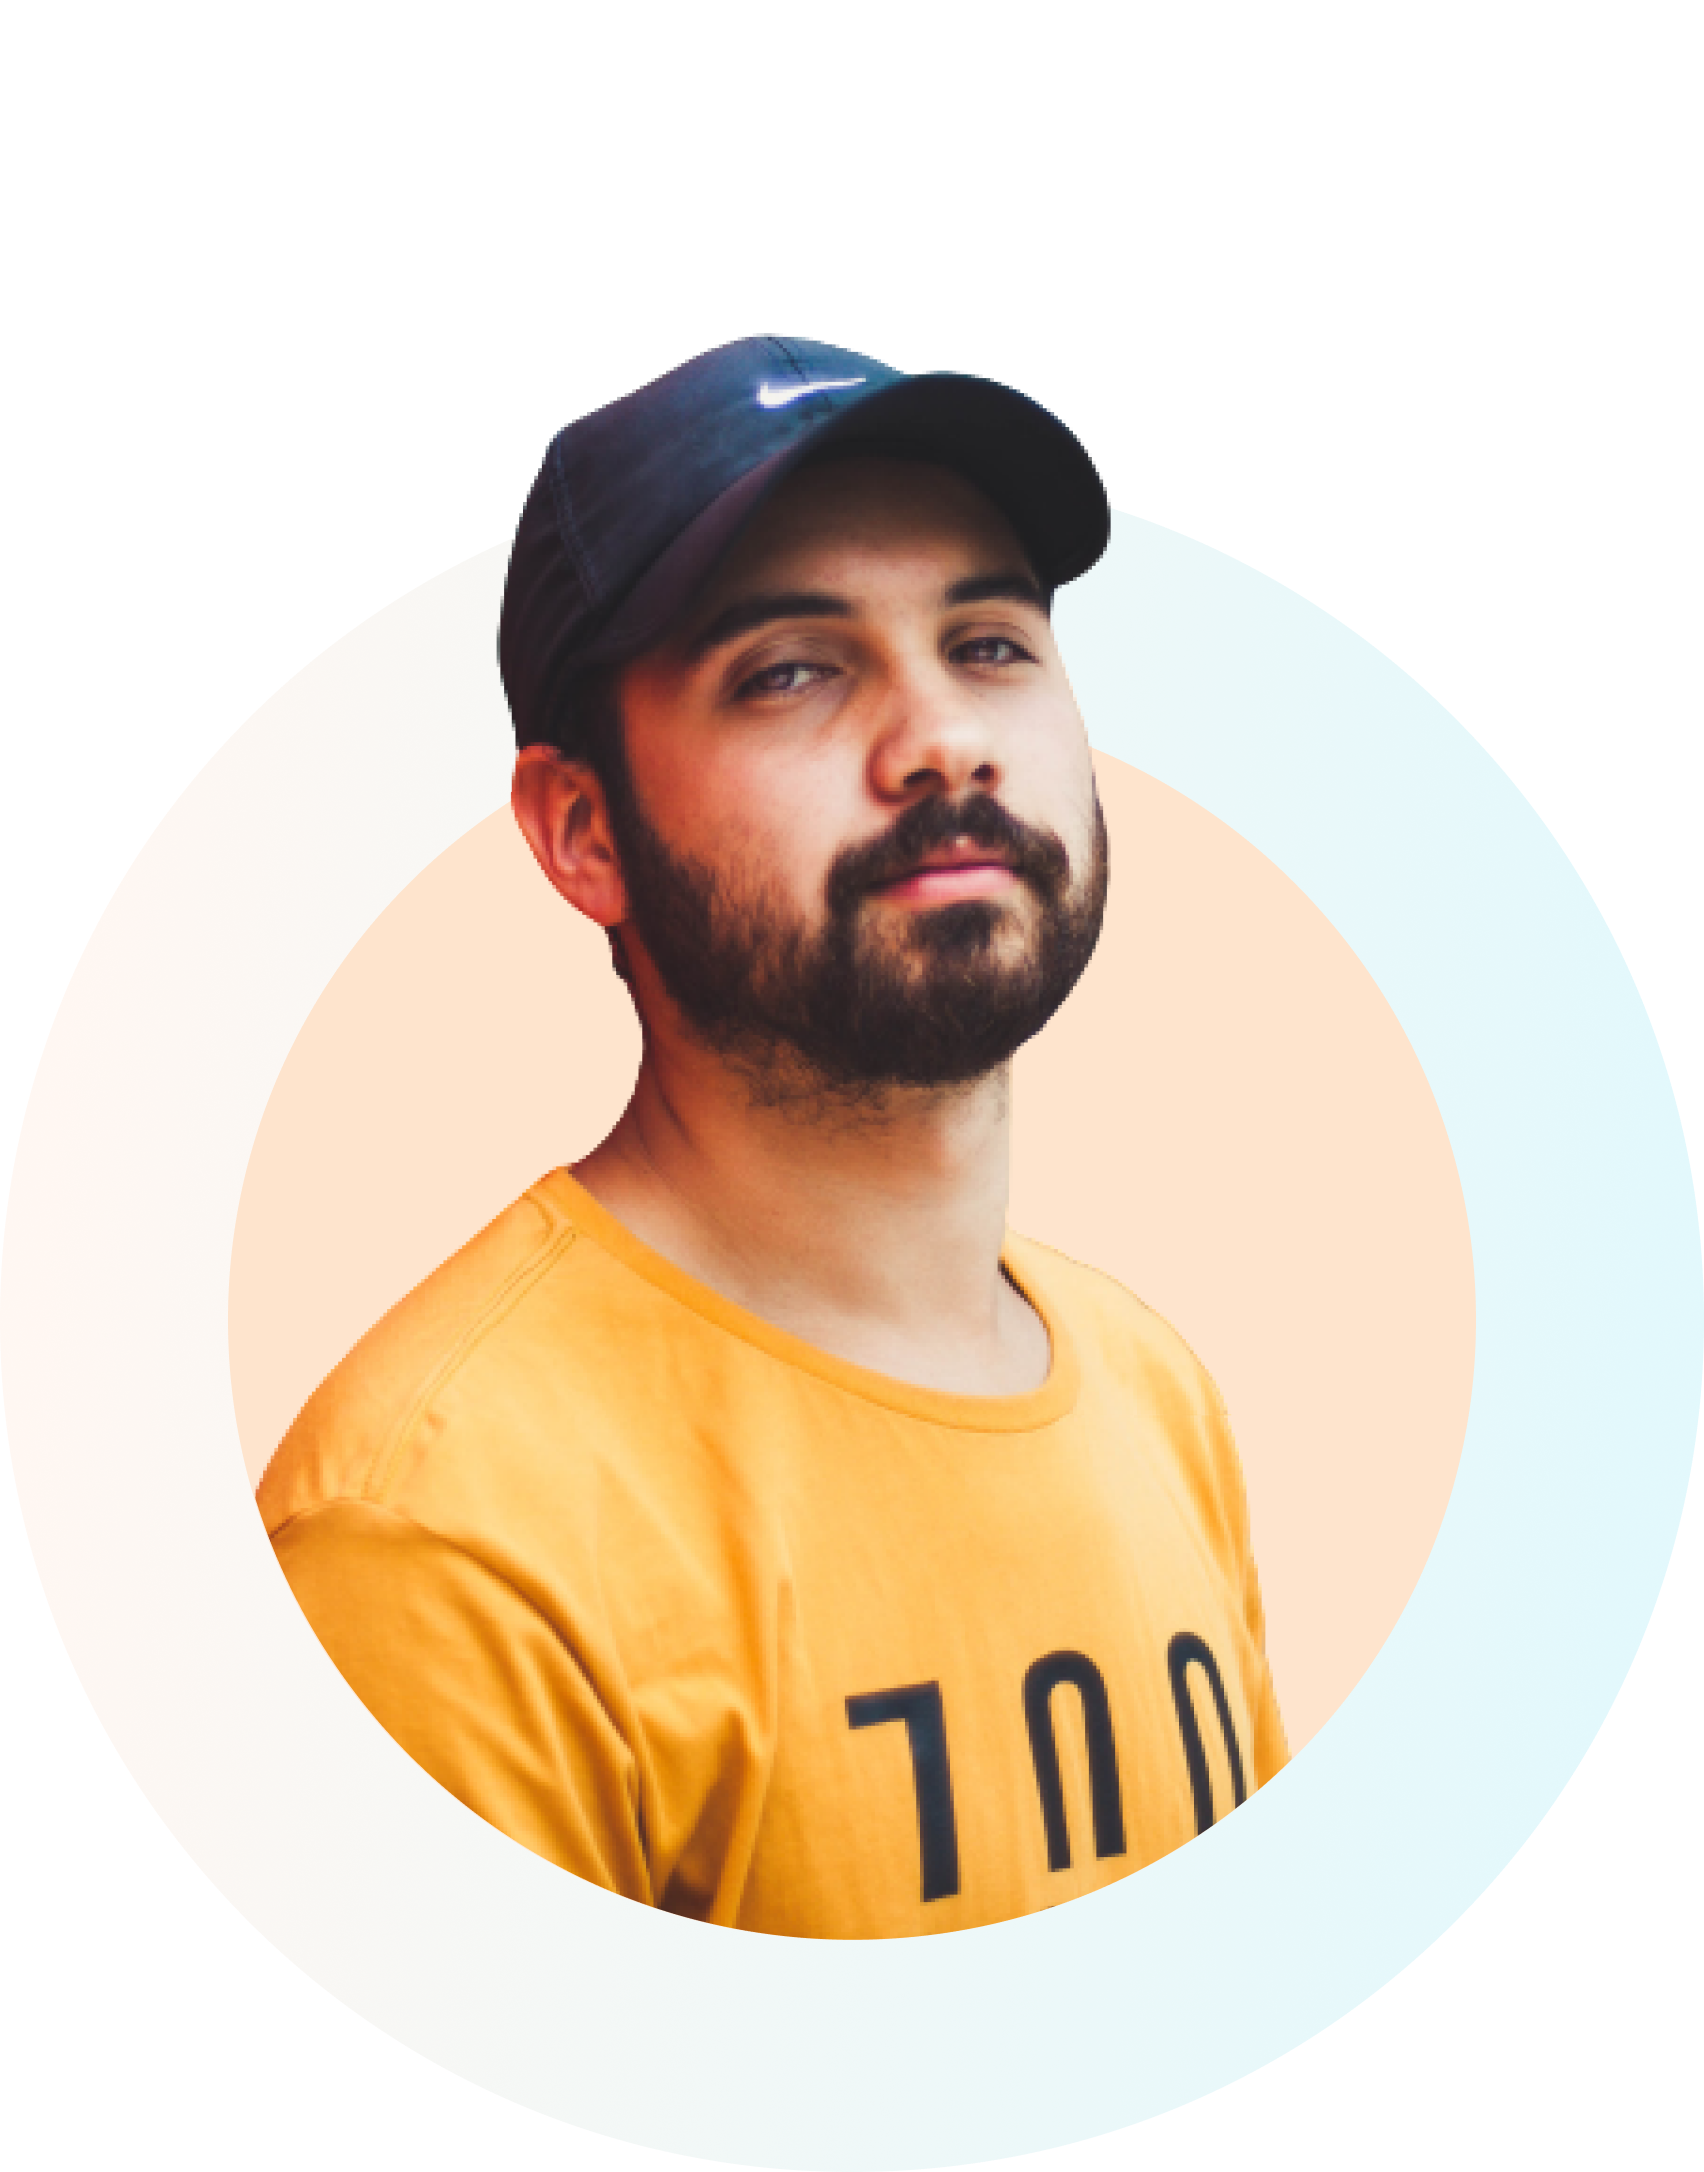
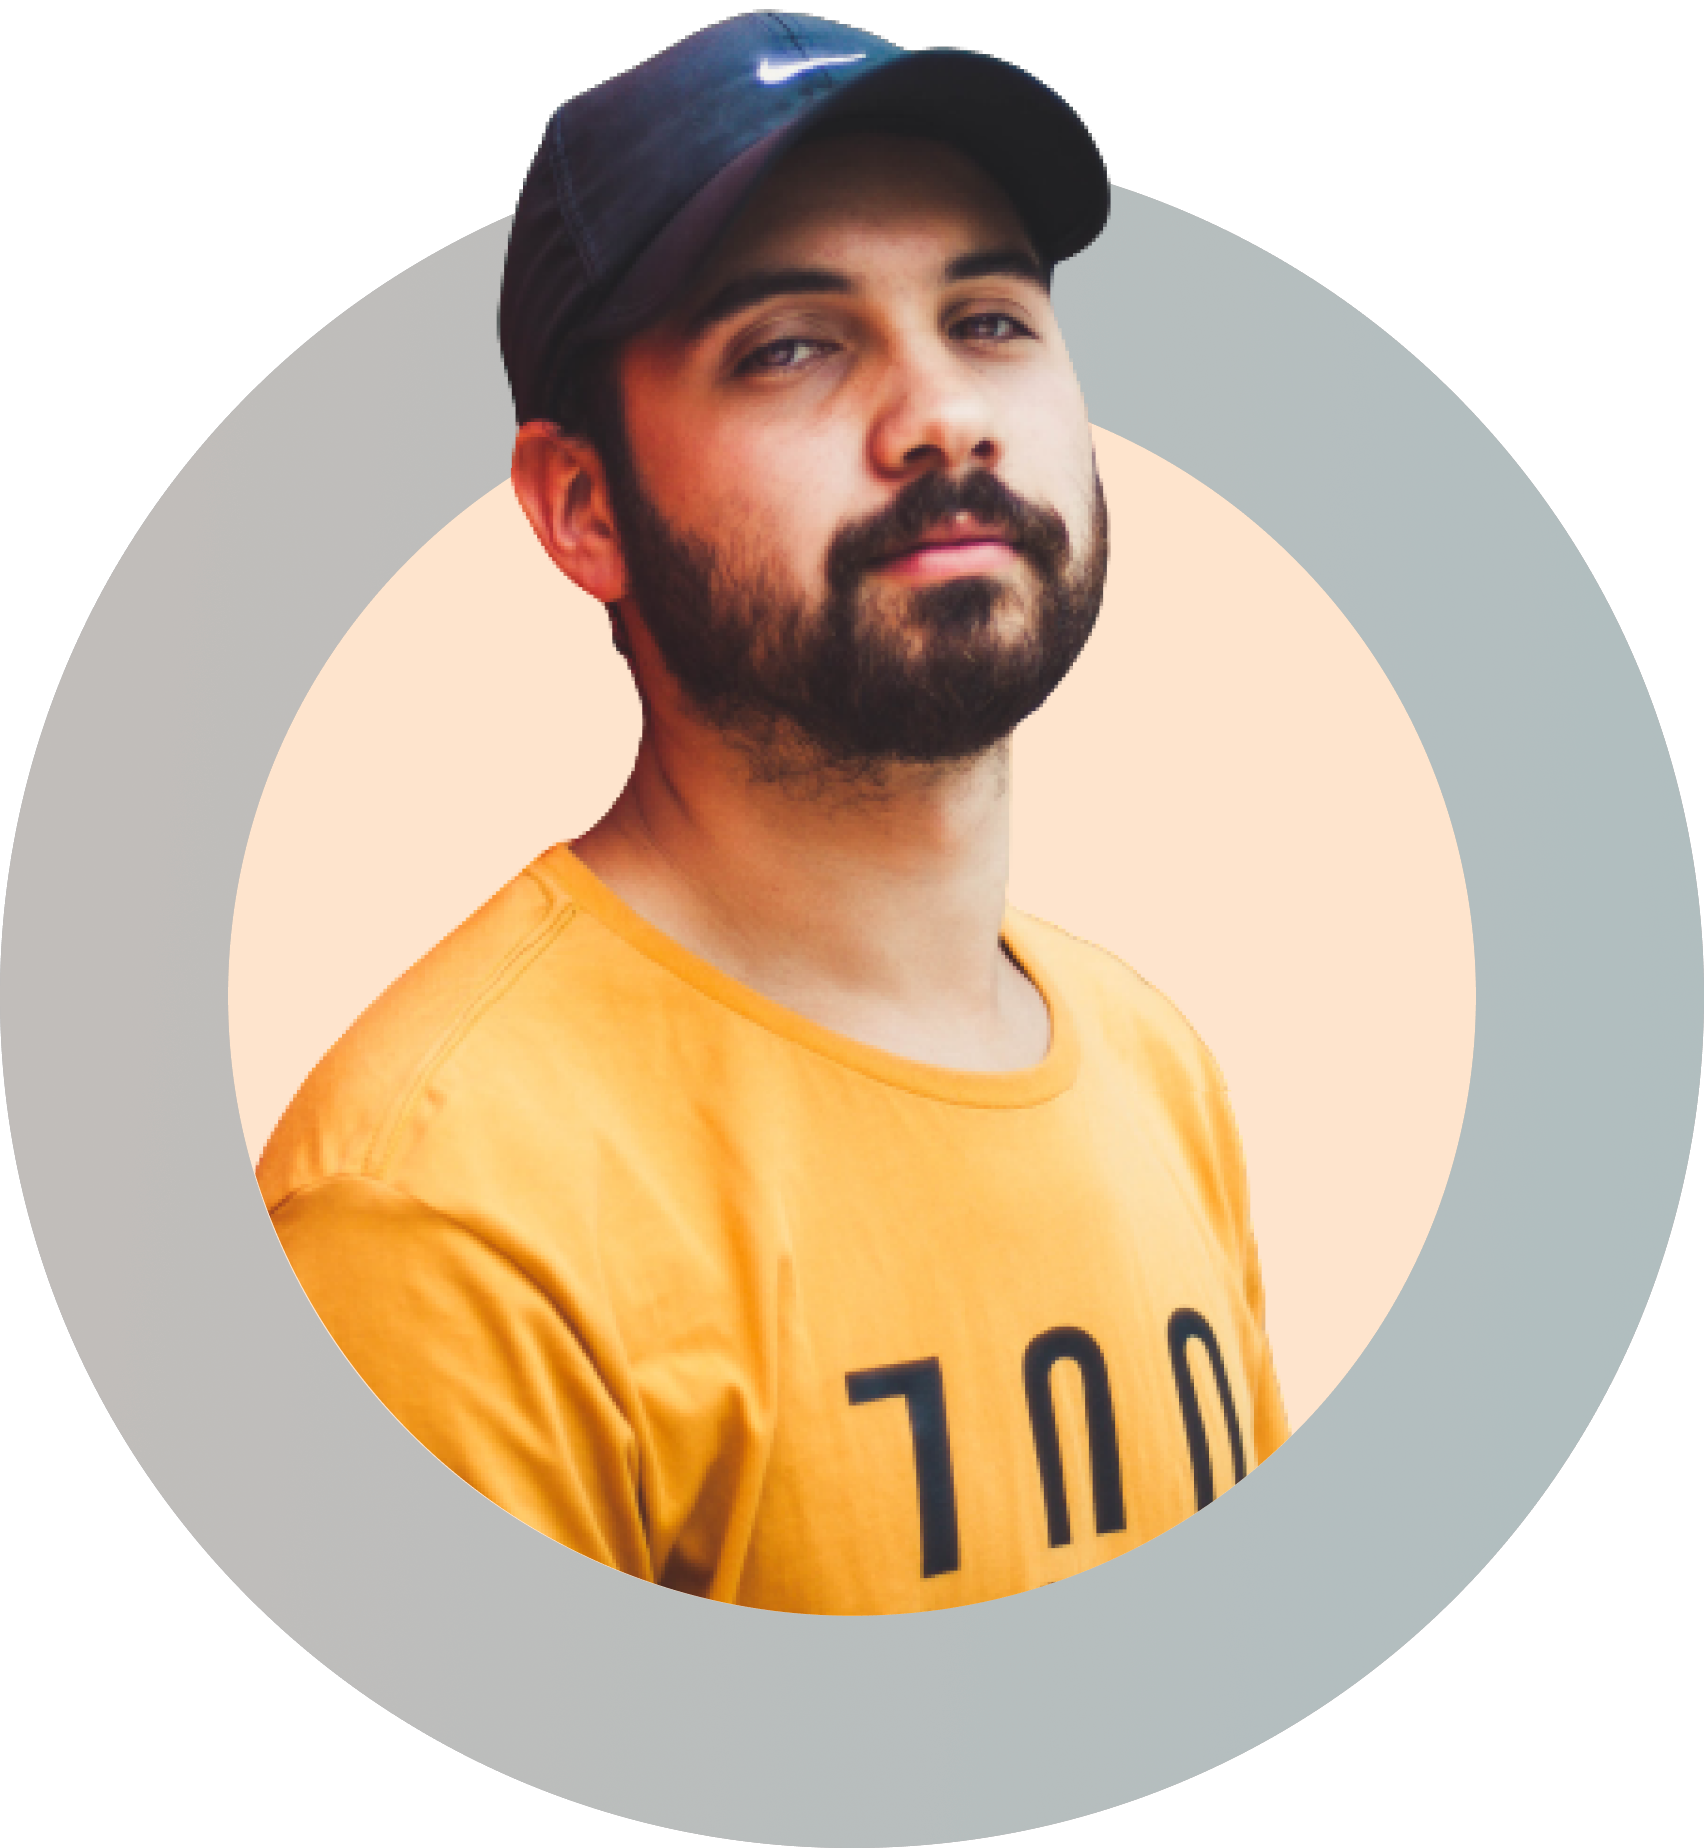
added

diff --git a/index.html b/index.html
@@ -10,7 +10,21 @@
 </head>
 
 <body>
-
+    <section class="hero-section">
+        <div>
+            <div>
+                <h1>Stay Focused On</h1>
+                <h1>Mission 2023</h1>
+            </div>
+            <p>The mission is a test: at some point in 2023, Space Safari (a part of the US Space Force) will tell
+                Firefly Aerospace that it needs to launch a satellite. The launch service provider will then have just
+                24 hours to get it into orbit — demonstrating the US's ability to rapidly replace a downed satellite.
+            </p>
+        </div>
+        <div>
+            <img src="images/person/person-2.png" alt="">
+        </div>
+    </section>
 </body>
 
 </html>

diff --git a/style.css b/style.css
@@ -1,0 +1,15 @@
+body {
+    margin-left: 65px;
+}
+
+h1 {
+    font-size: 50px;
+}
+
+.hero-section {
+    display: flex;
+}
+
+.hero-section img {
+    width: 70%;
+}
